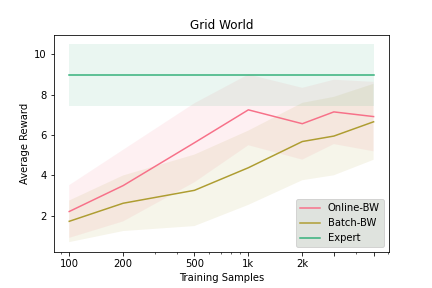
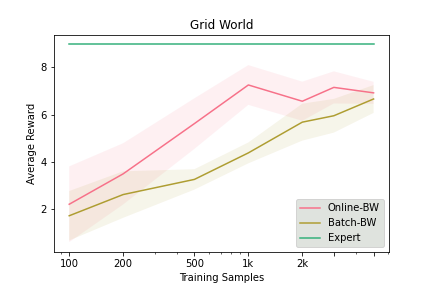
changed std comparison

diff --git a/OnlineBWforHIL_GridWorld/Neural_Network/main_Comparison.py b/OnlineBWforHIL_GridWorld/Neural_Network/main_Comparison.py
@@ -96,6 +96,19 @@ List_TimeOnline[0] = np.divide(List_TimeOnline[0], len(results_batch))
 List_RewardOnline[0] = np.divide(List_RewardOnline[0], len(results_batch))
 List_STDOnline[0] = np.divide(List_STDOnline[0], len(results_batch))
 
+# %%
+List_RewardBatch = np.zeros((len(results_batch), len(results_batch[seed][1][0])))
+List_RewardOnline = np.zeros((len(results_batch), len(results_batch[seed][1][0])))
+
+for trajs in range(len(results_batch[seed][1][0])):
+    for seed in range(len(results_batch)):
+        List_RewardBatch[seed, trajs] = results_batch[seed][1][0][trajs]
+        List_RewardOnline[seed, trajs] =  results_online[seed][1][0][trajs]
+
+List_STDBatch = np.std(List_RewardBatch, axis=0)
+List_RewardBatch = np.mean(List_RewardBatch, axis=0)
+List_STDOnline = np.std(List_RewardOnline, axis=0)
+List_RewardOnline = np.mean(List_RewardOnline, axis=0)
 
 # %% Plot
 
@@ -106,21 +119,38 @@ Samples = max_epoch*nTraj
 Reward_Expert = np.sum(Reward_Array)/(Reward_Array.shape[0]*Reward_Array.shape[1])
 STDExpert = np.sum(np.std(Reward_Array, axis = 1))/len(np.std(Reward_Array, axis = 1))
 
+# fig, ax = plt.subplots()
+# plt.xscale('log')
+# plt.xticks(Samples, labels=['100', '200', '500', '1k', '2k'])
+# clrs = sns.color_palette("husl", 5)
+# ax.plot(Samples, List_RewardOnline[0], label='Online-BW', c=clrs[0])
+# ax.fill_between(Samples, List_RewardOnline[0]-List_STDOnline[0], List_RewardOnline[0]+List_STDOnline[0], alpha=0.1, facecolor=clrs[0])
+# ax.plot(Samples, List_RewardBatch[0], label = 'Batch-BW', c=clrs[1])
+# ax.fill_between(Samples, List_RewardBatch[0]-List_STDBatch[0], List_RewardBatch[0]+List_STDBatch[0], alpha=0.1, facecolor=clrs[1])
+# ax.plot(Samples, Reward_Expert*np.ones(len(nTraj)), label='Expert', c=clrs[2])
+# ax.fill_between(Samples, Reward_Expert*np.ones(len(nTraj))-STDExpert, Reward_Expert+STDExpert, alpha=0.1, facecolor=clrs[2])
+# ax.legend(loc=4, facecolor = '#d8dcd6')
+# ax.set_xlabel('Training Samples')
+# ax.set_ylabel('Average Reward')
+# ax.set_title('Grid World')
+# plt.savefig('Figures/Comparison/Reward_GridWorld_NN.png', format='png')
+
 fig, ax = plt.subplots()
 plt.xscale('log')
 plt.xticks(Samples, labels=['100', '200', '500', '1k', '2k'])
 clrs = sns.color_palette("husl", 5)
-ax.plot(Samples, List_RewardOnline[0], label='Online-BW', c=clrs[0])
-ax.fill_between(Samples, List_RewardOnline[0]-List_STDOnline[0], List_RewardOnline[0]+List_STDOnline[0], alpha=0.1, facecolor=clrs[0])
-ax.plot(Samples, List_RewardBatch[0], label = 'Batch-BW', c=clrs[1])
-ax.fill_between(Samples, List_RewardBatch[0]-List_STDBatch[0], List_RewardBatch[0]+List_STDBatch[0], alpha=0.1, facecolor=clrs[1])
+ax.plot(Samples, List_RewardOnline, label='Online-BW', c=clrs[0])
+ax.fill_between(Samples, List_RewardOnline-List_STDOnline, List_RewardOnline+List_STDOnline, alpha=0.1, facecolor=clrs[0])
+ax.plot(Samples, List_RewardBatch, label = 'Batch-BW', c=clrs[1])
+ax.fill_between(Samples, List_RewardBatch-List_STDBatch, List_RewardBatch+List_STDBatch, alpha=0.1, facecolor=clrs[1])
 ax.plot(Samples, Reward_Expert*np.ones(len(nTraj)), label='Expert', c=clrs[2])
-ax.fill_between(Samples, Reward_Expert*np.ones(len(nTraj))-STDExpert, Reward_Expert+STDExpert, alpha=0.1, facecolor=clrs[2])
+#ax.fill_between(Samples, Reward_Expert*np.ones(len(nTraj))-STDExpert, Reward_Expert+STDExpert, alpha=0.1, facecolor=clrs[2])
 ax.legend(loc=4, facecolor = '#d8dcd6')
 ax.set_xlabel('Training Samples')
 ax.set_ylabel('Average Reward')
 ax.set_title('Grid World')
 plt.savefig('Figures/Comparison/Reward_GridWorld_NN.png', format='png')
+
 
 fig_time, ax_time = plt.subplots()
 plt.xscale('log')
